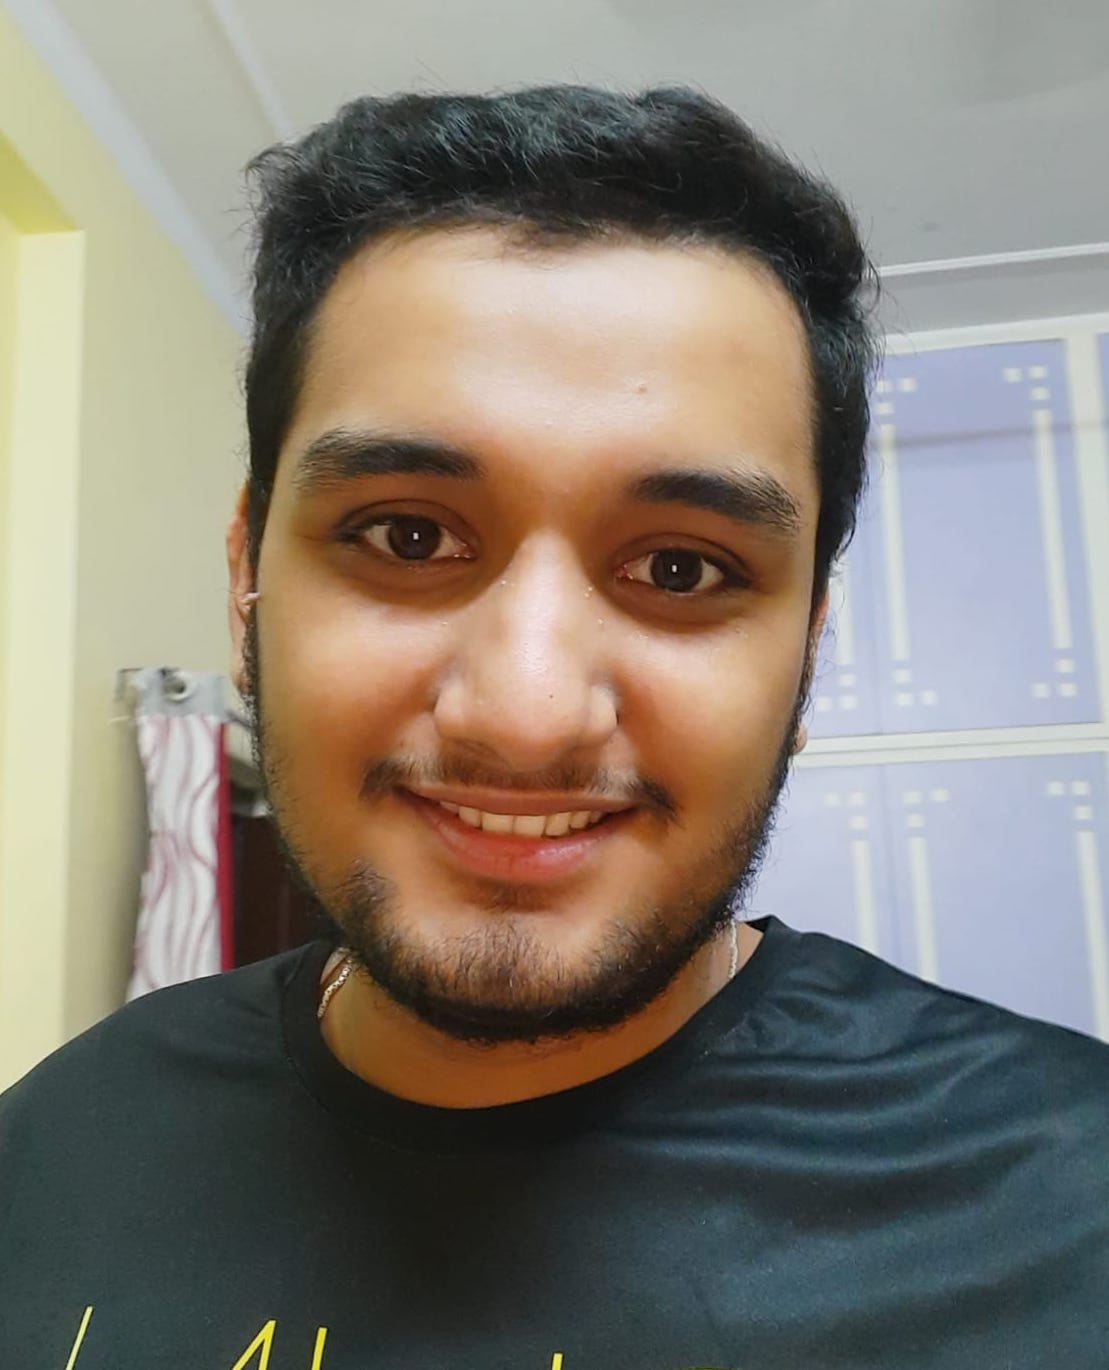
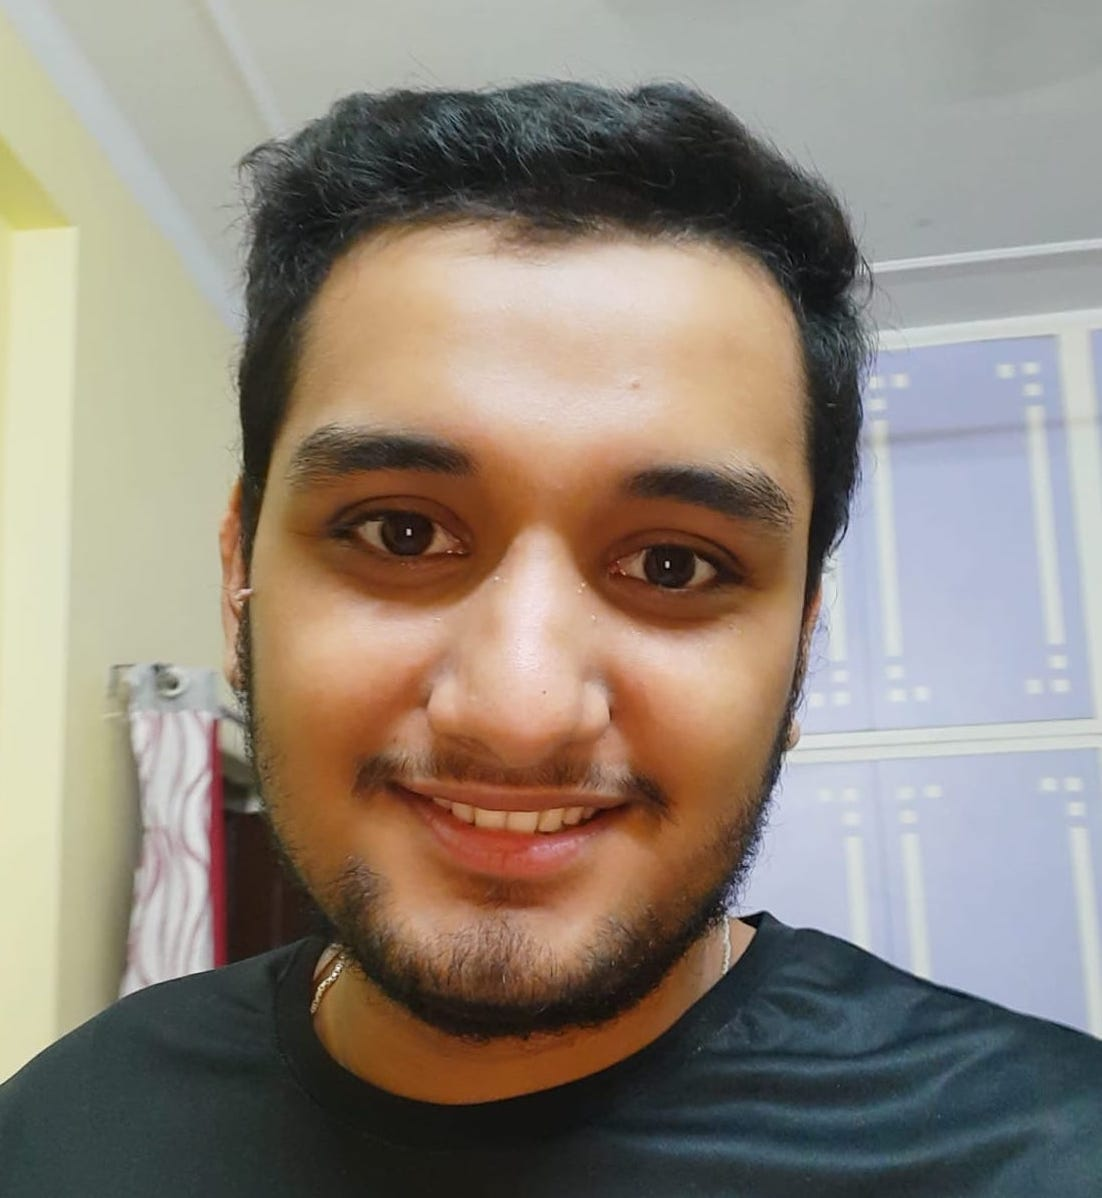
changes

diff --git a/src/dept/About us/index.html b/src/dept/About us/index.html
@@ -170,7 +170,7 @@
 			<h5 style="	font-size: 12px;  ">Asst. Coordinator <br>Dance</h5>	
 		  </div>
 		  <div class="profile">
-			<img src="img/Simran.jpeg" class="profile-img1">
+			<img src="img/Simran1.jpeg" class="profile-img1">
 			<h3 class="user-name1">Simran Chawla </h3>
 			<h5 style="	font-size: 12px;  ">Asst. Coordinator <br>Arts</h5>	
 		  </div>
